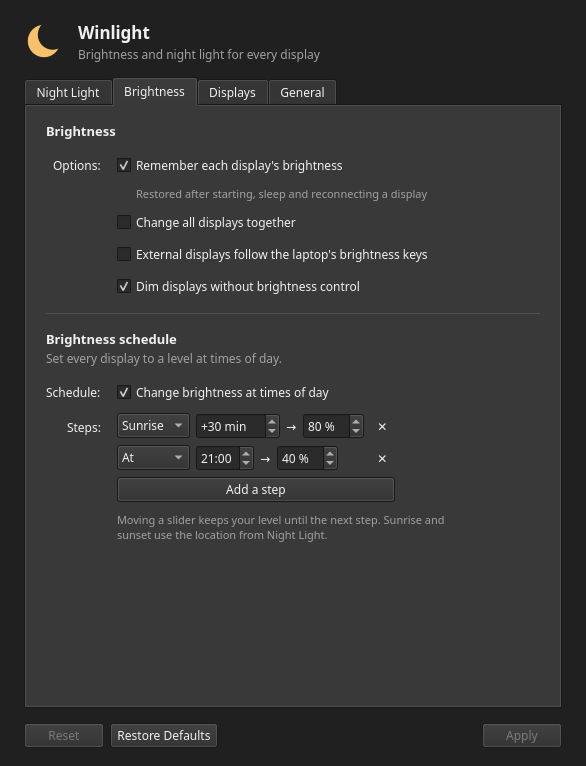
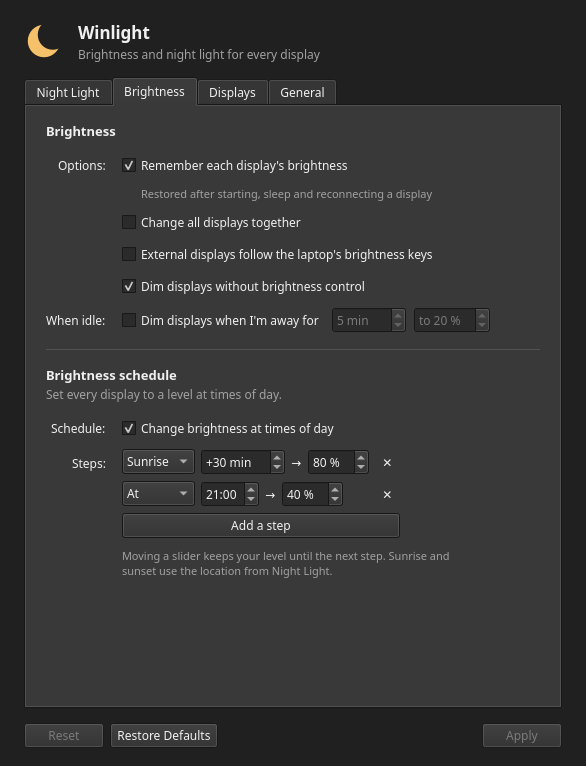
Docs: dimming when idle
README feature, both test plans and the design notes; screenshots show
the new option.

Changed region(s): [[0.0614, 0.3303, 0.8294, 0.7507], [0.215, 0.2102, 0.7372, 0.3003], [0.0922, 0.2102, 0.1843, 0.2402]]

diff --git a/README.md b/README.md
@@ -10,7 +10,7 @@ Brightness and night light for every display on Windows: external monitors, TVs 
 
 - **Every display gets a slider.** DDC/CI for external monitors, the laptop's own control for its panel, Windows' SDR brightness for HDR displays, and software dimming for TVs and anything else.
 - **Night light** with a warm color shift, by custom times or sunrise and sunset at your city, with smooth transitions. It **pauses on the display showing a game, a video or an app you choose**, and keeps going on the others.
-- **Brightness that follows your day:** a schedule of levels (fixed times, or sunrise and sunset), and each display's level put back after restarting, sleep, or reconnecting a monitor.
+- **Brightness that follows your day:** a schedule of levels (fixed times, or sunrise and sunset), dimming while you're away, and each display's level put back after restarting, sleep, or reconnecting a monitor.
 - **Your displays, your names:** rename displays or hide the ones you don't want in the panel.
 - **Scriptable:** `winlight-cli --set 40`, `--night-light toggle`, and more, for AutoHotkey, Task Scheduler or a Stream Deck.
 - **Small and native:** a tray icon and a panel, light and dark mode, starts with Windows if you like.
@@ -51,6 +51,7 @@ Brightness and night light for every display on Windows: external monitors, TVs 
 | Private logs and reports | 🧪 Needs Windows testing | User name, computer name, home folder and emails are scrubbed from every log line and report; no location, custom names or listed app names are written. |
 | Never steals focus from fullscreen games | 🧪 Needs Windows testing | Windows' "don't interrupt" state and fullscreen detection keep Winlight from opening windows on its own over a game, video or presentation. |
 | Laptop brightness keys move external displays too | 🧪 Needs Windows testing | Optional. Follows the laptop panel's level rather than intercepting the keys. |
+| Dim when idle | 🧪 Needs Windows testing | Optional: displays dim after a few minutes without input and come back on the first key or mouse move. Not while a video, game or presentation keeps the screen on. |
 | Displays followed after sleep | 🧪 Needs Windows testing | Re-detection at 2 s to 2 min after waking, each pass logged with its timing, stopping once every display is back. |
 | Multi-display detection, hotplug and sleep | 🧪 Needs Windows testing | Re-detection after display changes and waking, several times, as monitors are often slow to answer. |
 | Start at sign-in, start minimized | ✅ Ready | The current user's Run registry key; no administrator rights. |
@@ -250,6 +251,7 @@ nightlight/
   privacy.py             scrubbing personal details from logs and reports
   brightness_keys.py     external displays following the laptop's brightness keys
   wake_report.py         re-detecting displays after sleep, with timings in the log
+  idle_dim.py            dimming while the PC is left alone
   data/                  time zone table for picking a location (from tools/make_timezones.py)
 packaging/               Windows build: PyInstaller spec, Inno Setup script, icon, build.py
 tools/                   screenshots.py (README images), make_timezones.py

diff --git a/docs/windows-notes.md b/docs/windows-notes.md
@@ -200,6 +200,8 @@ Reading [Monitorian](https://github.com/emoacht/Monitorian), [Twinkle Tray](http
   - ✅ `brightness_keys.py` doesn't intercept keys: it follows the panel's level, from Windows' power-setting notification for display brightness (`aded5e82-…`, when Windows sends it) and a 2 s check of the panel while the option is on, and sets external displays to match. Changes the app made itself within 2 s are its own echo and ignored, so the panel's own slider doesn't move the others. Testing will show which source fires on which laptops.
 - **After sleep**, the most reported DDC/CI problem in both projects.
   - ✅ `wake_report.py`: re-detection at 2, 5, 10, 20, 30, 60 and 120 s after waking (Monitorian: 5–60 s), each pass logged with its time since waking, who answered and how long detection took, and a summary (also in diagnostics). It stops once every display that answered before sleep has answered twice in a row. Schedules now add up instead of replacing each other, so a display change right after waking no longer cuts the wake's schedule short; Windows' event and the clock check reporting the same wake count once.
+- **Dimming when idle** (Twinkle Tray's "Idle Detection", with "fullscreen apps block idle detection" and "media blocks idle detection").
+  - ✅ `idle_dim.py`: idle is `GetLastInputInfo` (across the 32-bit tick wraparound its docs warn about). Instead of watching media players, it uses the signal they already set: `CallNtPowerInformation(SystemExecutionState)` reports `ES_DISPLAY_REQUIRED` while any app keeps the display on (video players, browsers playing video, presentations), plus the fullscreen and "don't interrupt" checks. Dimming never brightens, isn't remembered as the user's level, skips sleeping monitors and hidden displays, and holds back schedule steps and restores until input; then every display gets `BrightnessMemory.target()` (so a step that passed meanwhile isn't undone) or its level from before.
 - **Privacy in logs and reports**: they get posted publicly.
   - ✅ `privacy.py`: every log line and traceback, and every file in a report (old log lines too), has the user name, computer name, home folder and email addresses replaced. Nothing writes coordinates, cities, time zones, custom display names, listed app names (logged as "a listed app"), or command-line arguments. Report timestamps are in UTC.
 

diff --git a/docs/windows-testing.md b/docs/windows-testing.md
@@ -216,6 +216,14 @@ Focus, keys, sleep and privacy:
 - [ ] Sleep for a few minutes and wake: the log has "After waking +N s: …" lines for each pass and a "Wake summary". Note how long each external monitor took to answer. Please send these lines even when everything works; they show how long monitors take on your hardware.
 - [ ] Open `night-light.log` and a Report a Problem zip: your Windows user name, computer name and email don't appear anywhere (look for `<user>`, `<computer>`, `<home>` instead), nor your city, coordinates, custom display names or the apps you listed.
 
+Dimming when idle (Settings > Brightness > When idle, e.g. 1 minute to 20%):
+
+- [ ] Leave the PC alone: after the time, every display fades to 20% (displays already darker stay as they are). Move the mouse: they fade back within about a second.
+- [ ] Play a video in a browser or player (not fullscreen) and leave it: nothing dims. The same with a fullscreen game or a PowerPoint slideshow.
+- [ ] With the brightness schedule on, stay away across a step's time: coming back sets the step's level, not the old one.
+- [ ] Quit Winlight while dimmed: the displays come back first.
+- [ ] Hidden displays and displays without brightness control stay as they are.
+
 Diagnostics and safe mode:
 
 - [ ] Tray > Report a Problem…: a zip appears on the Desktop with summary.txt, settings.json (location rounded) and the logs; the summary is on the clipboard; the buttons show the file and open GitHub. `winlight-cli --diagnostics` does the same and prints the path.

diff --git a/docs/testing-installer.md b/docs/testing-installer.md
@@ -43,6 +43,7 @@ In the panel, click ⚙ (Settings):
 - [ ] Turn on the **Brightness schedule** with a step a minute or two from now, Apply: at that time every display fades to the step's level. Move a slider afterwards: your level stays until the next step.
 - [ ] Settings → **Displays**: rename one, untick "Show in panel" for another, Apply. The panel uses the new name and leaves out the hidden one.
 - [ ] Laptop with an external monitor: tick **External displays follow the laptop's brightness keys**, Apply, and press the brightness keys: the external monitor follows within about 2 seconds.
+- [ ] Tick **Dim displays when I'm away for 1 min to 20%**, Apply, and leave the PC alone: after a minute the displays fade down; move the mouse and they come back. Play a video and leave it: nothing dims.
 - [ ] Sleep the PC for a few minutes with a monitor connected, wake it, and wait 2 minutes before **Report a Problem…**: the summary's "Last wake from sleep" section shows when each display answered again.
 
 ## 5. Command line (optional)
